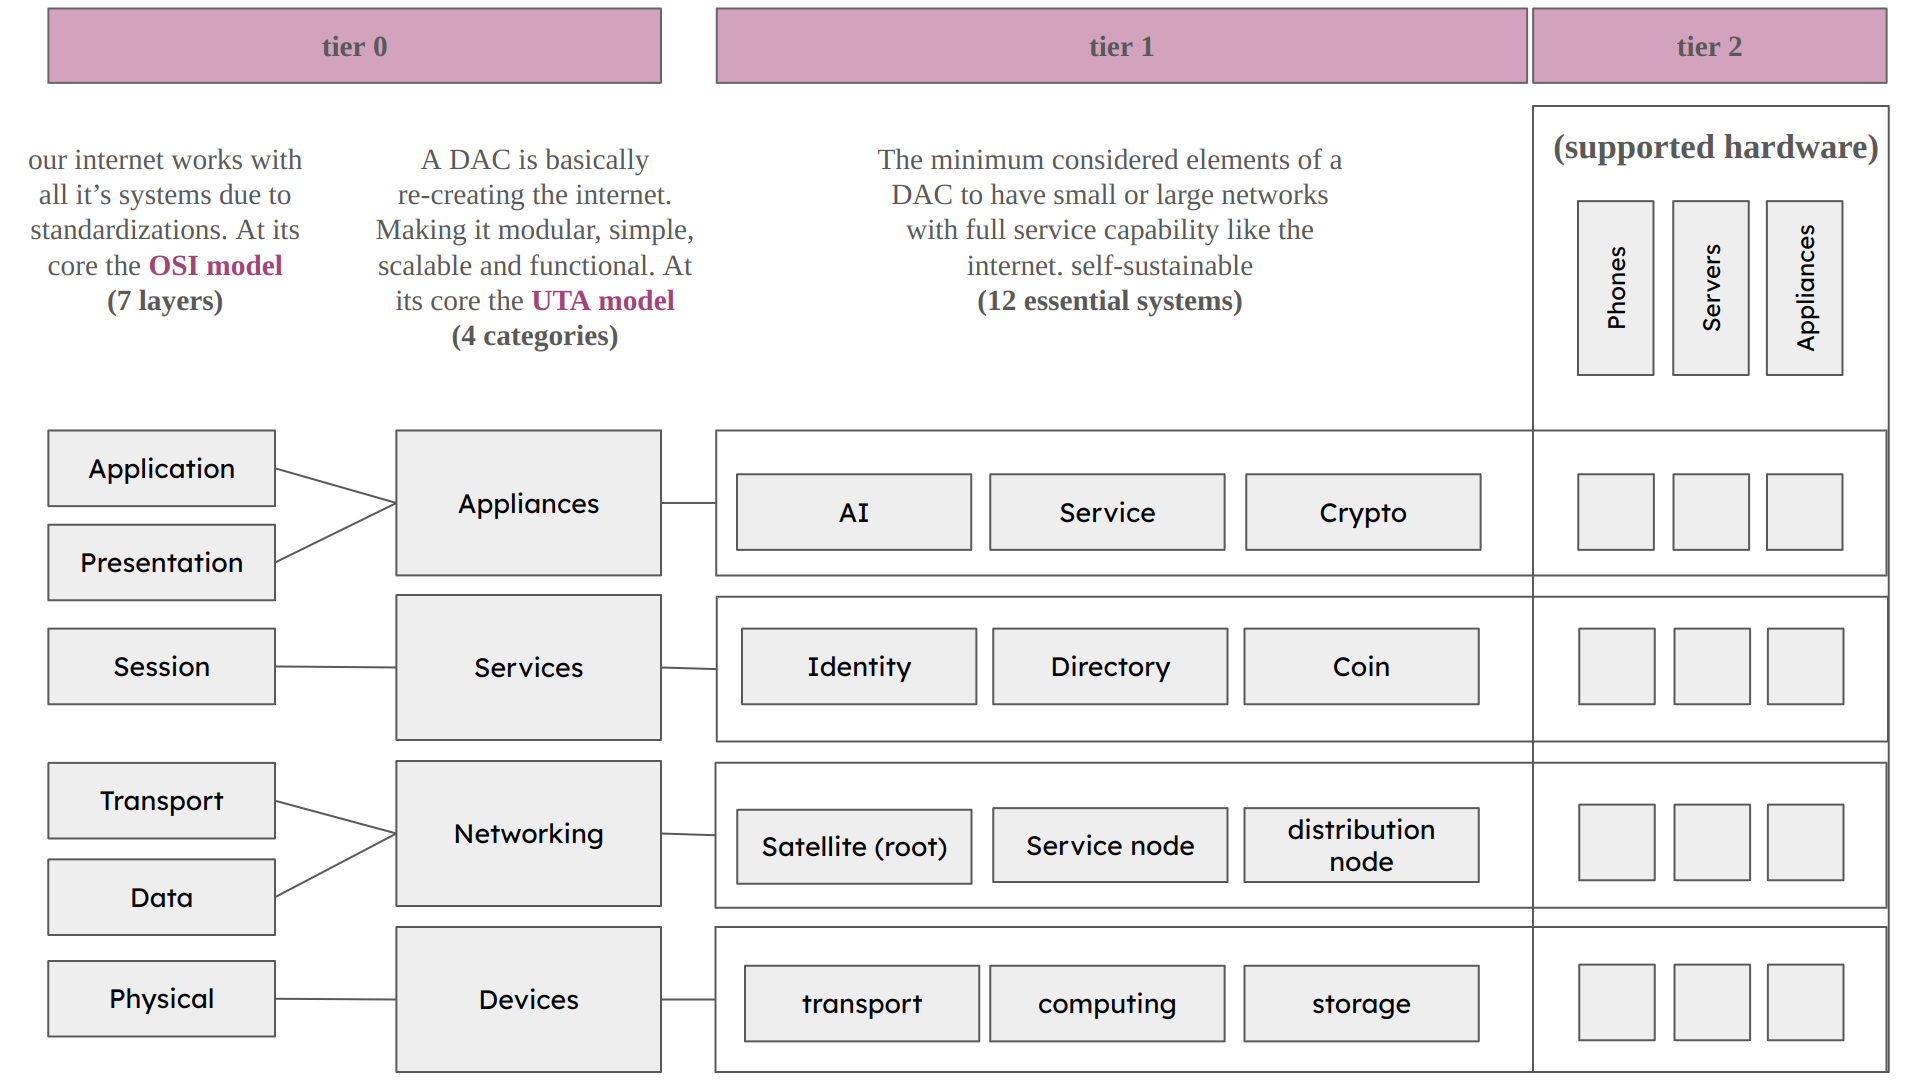
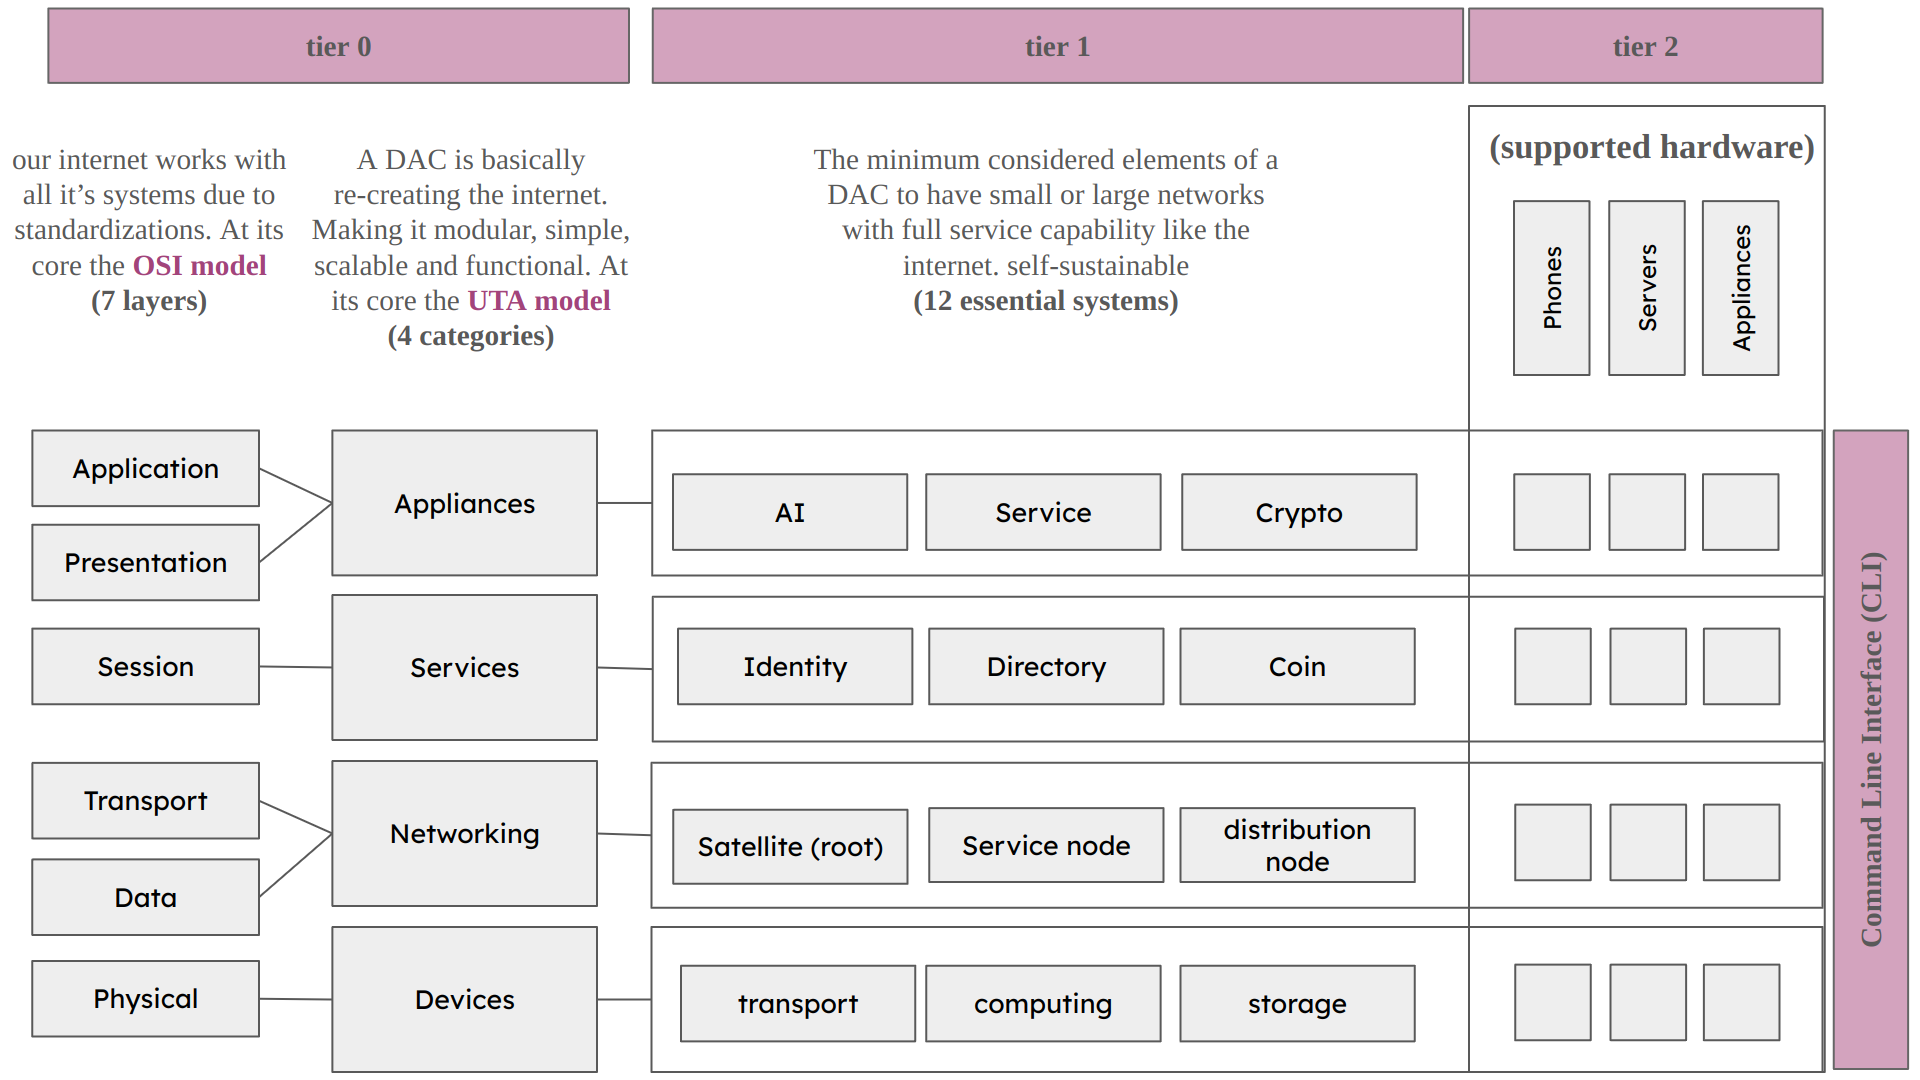
as

diff --git a/index.html b/index.html
@@ -138,6 +138,10 @@
                     <span class="highlighted">tier 1</span> - Essential systems that cover the re-creation of the internet<br/>
                     <span class="highlighted">tier 2</span> - Specific hardware systems that are supported, like Phone models, Servers and Appliances like routers or NAS<br/>
                 </p>
+
+                <p class="align-left">
+                    <span class="highlighted">Command Line Interface (CLI)</span> - A unified approach to setup, install and distribute your community cloud <a href="#cli">Click here for an impression</a>. 
+                </p>
             </div>
         </section>
 
